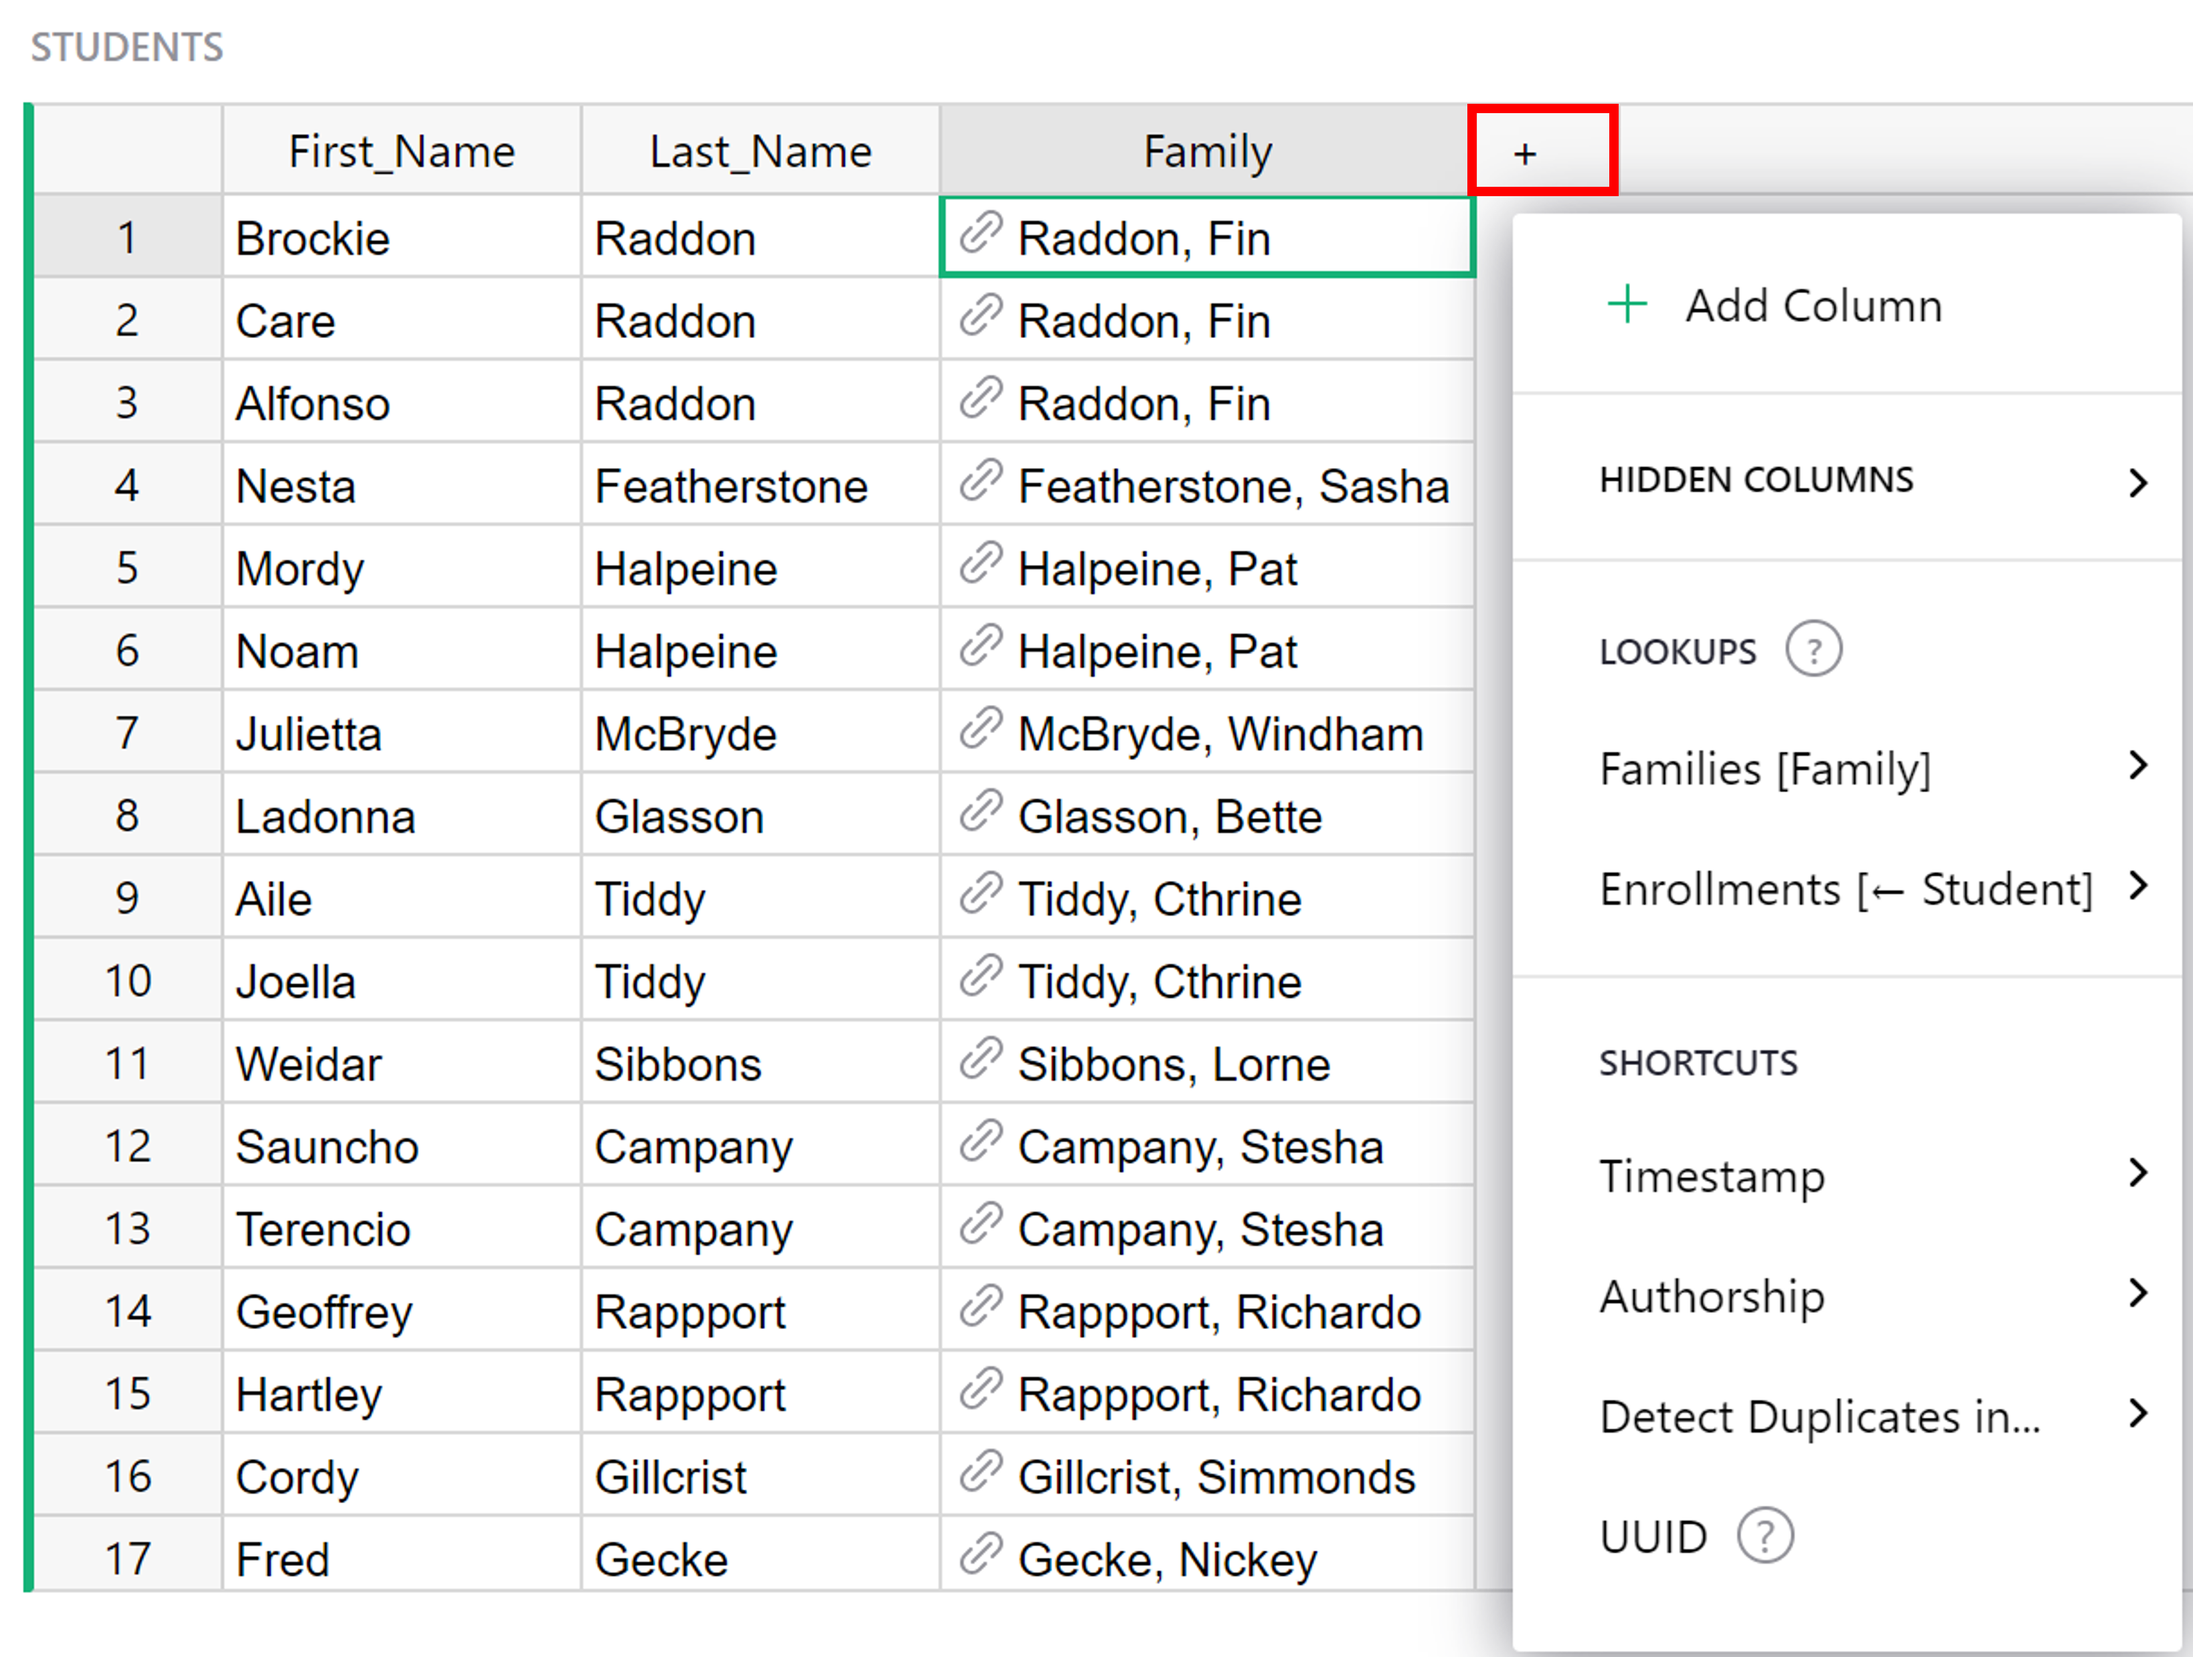
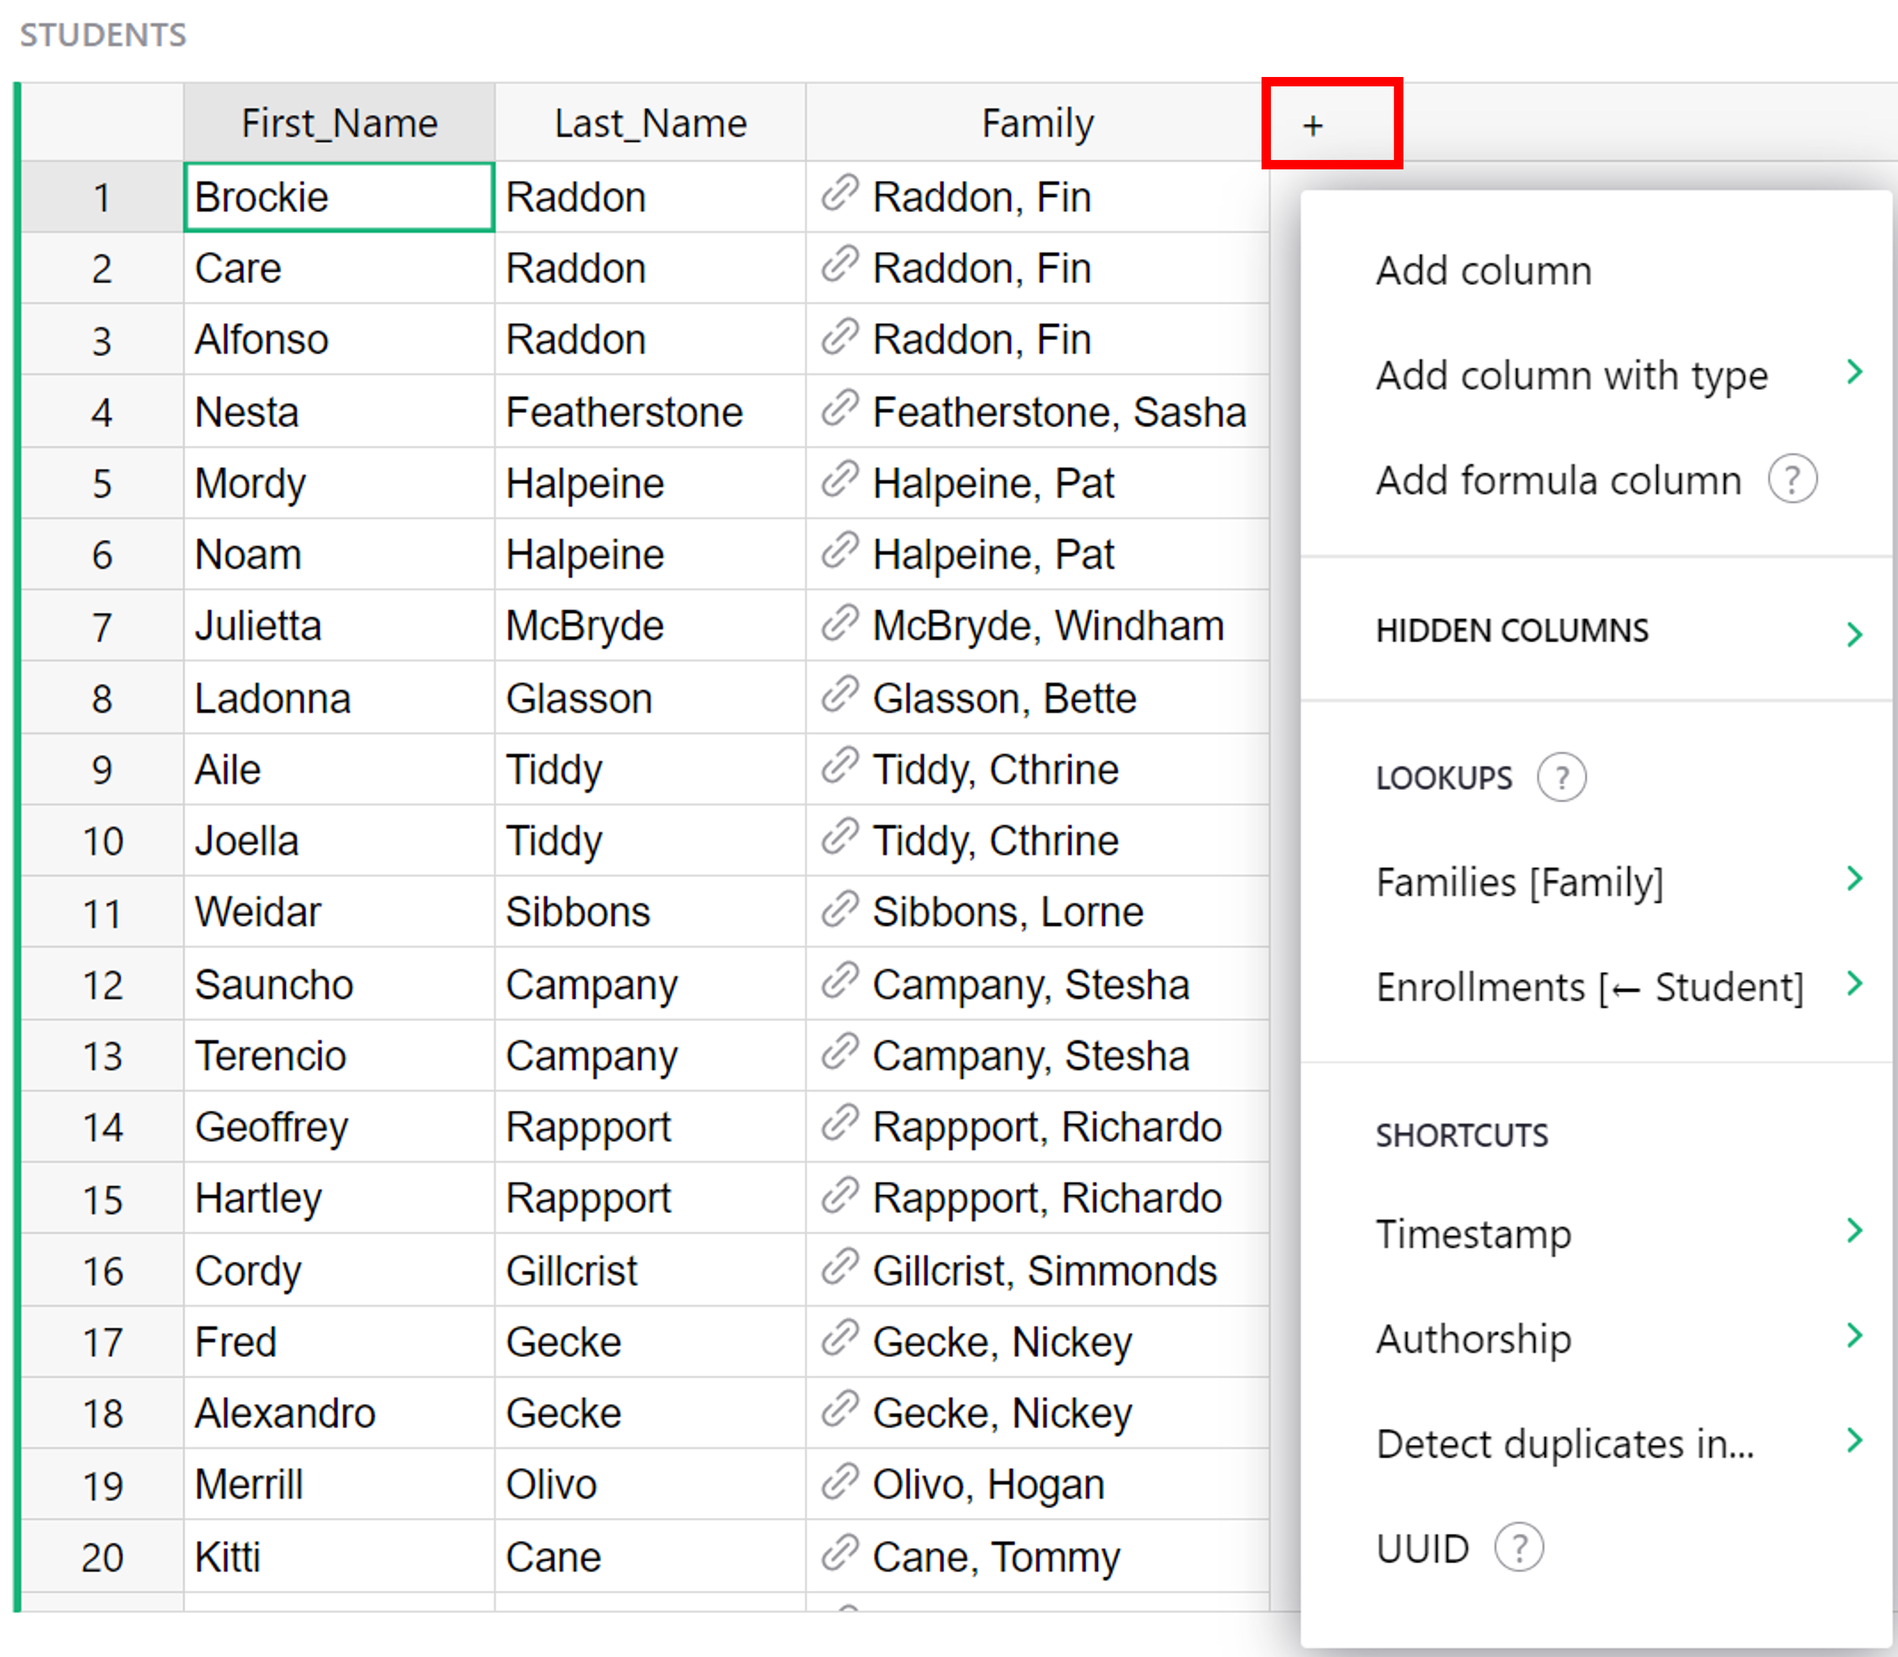
upates to add column menu (col type) + glossary updates (lookups, trigger formulas)

Changed region(s): [[0.0, 0.0, 1.0, 1.0]]

diff --git a/help/glossary.md b/help/glossary.md
@@ -106,6 +106,17 @@ Examples of importing include:
  - Calling Grist's API from a program and adding data read from another source
    (see: [Grist API](rest-api.md)).
 
+
+## Lookups
+
+Lookup formulas allow you to "look up" data in other tables.
+
+[lookupOne](references-lookups.md#lookupone) allows you to look up a single record in another table by matching some data across two tables, similar to Excel's VLOOKUP.
+
+[lookupRecords](references-lookups.md#lookuprecords) allows you to look up multiple records in another table by matching some data across two tables.
+
+[Dot Notation](references-lookups.md#reference-columns-and-dot-notation) allows you to use a [reference column](col-refs.md) to look up more data for a referenced record. Dot Notation can also be used with [reference lists](references-lookups.md#reference-lists-and-dot-notation) as well as within a [lookupOne](references-lookups.md#lookupone-and-dot-notation) or [lookupRecords](references-lookups.md#lookuprecords) formula.
+
 ## Page
 
 Grist documents are organized visually into pages.  Each page allows
@@ -150,6 +161,10 @@ called a column.
 The order in which rows of a table are shown is called the sort order.
 An example of changing the sort order of a table is given in the
 [CRM tutorial](lightweight-crm.md#to-do-tasks-for-contacts).
+
+## Trigger Formulas
+
+A [trigger formula](formulas.md#trigger-formulas) is a formula that recalculates your data based on a set of conditions that you decide. They also allow you to [clean data](https://www.youtube.com/watch?v=wwzm39ADslA&list=PL3Q9Tu1JOy_4p4g-uS_3LQrB_3Vm7CWe4&index=10&t=2282s) when a new value is entered, provide a sensible [default value](formula-cheat-sheet.md#setting-default-values-for-new-records) for a column or [create Time and Authorship stamps](formula-cheat-sheet.md#automatic-date-time-and-author-stamps).
 
 ## User Menu
 

diff --git a/help/col-types.md b/help/col-types.md
@@ -22,10 +22,16 @@ To add a column, click on the "+" symbol in the header row to open the "Add Colu
 
 ![Add column](images/columns/columns-add-column.png)
 
-The first option in the menu, "+ Add Column", will add a new, empty data column to your table.
+The first option in the menu, "Add Column", will add a new, empty data column to your table.
 
-*![Add new column](images/columns/columns-add-new-column.png)*
+If you know what column type you need, the next option allows you to assign a type for your new column. Select a column type from the expanded menu.
+
+*![Add new column type](images/columns/columns-add-new-column-type.png)*
 {: .screenshot-half }
+
+The third option, 'Add formula column', will add a new formula column with the formula entry box immediately opened so you can begin entering your formula without additional clicks.
+
+![Add formula column](images/columns/columns-add-formula-column.png)
 
 "Hidden Columns" expands to show a list of columns hidden from this view that can be quickly added back.
 
